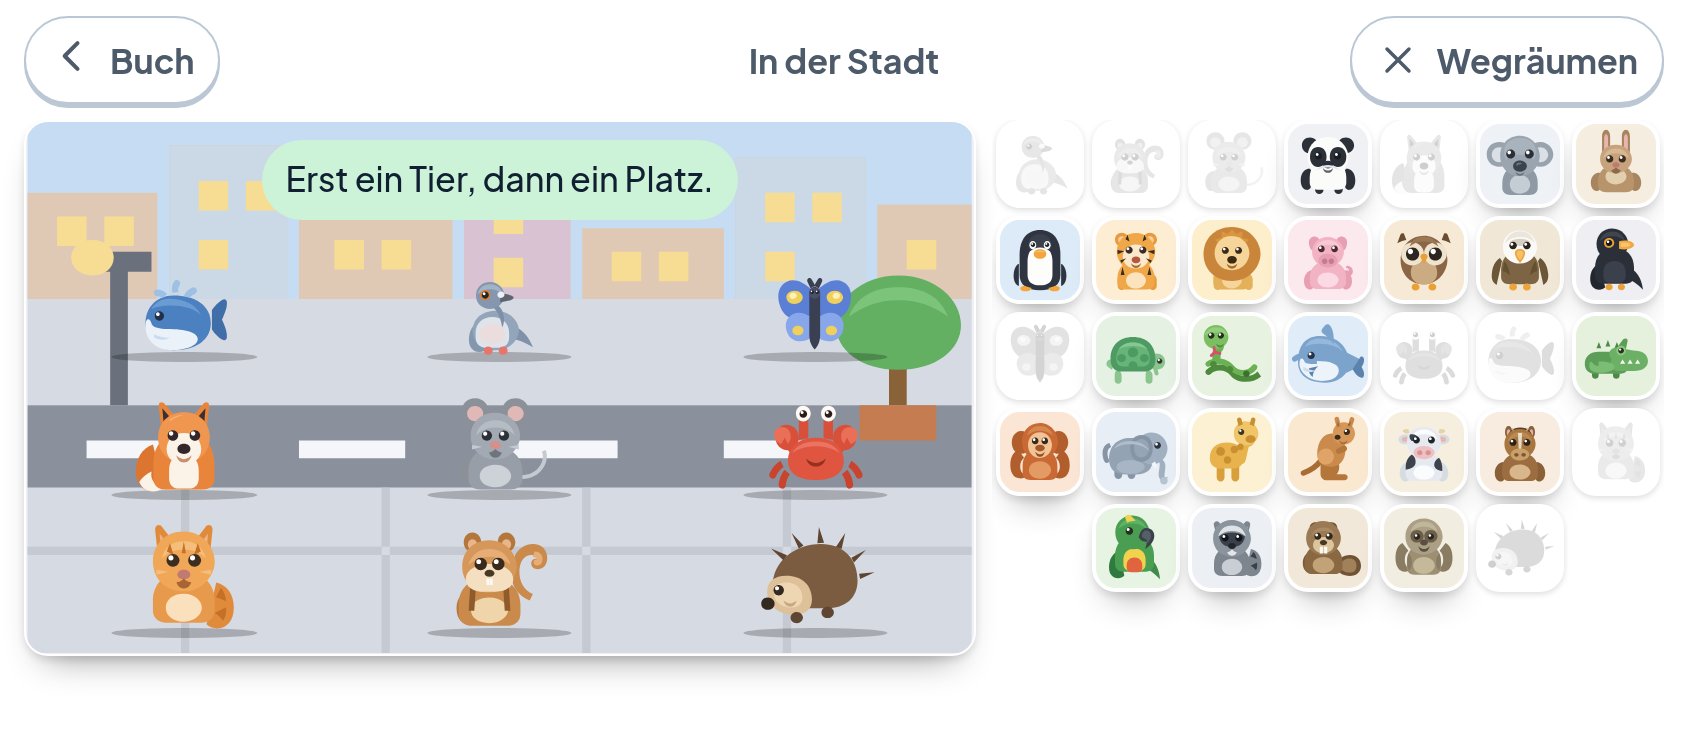
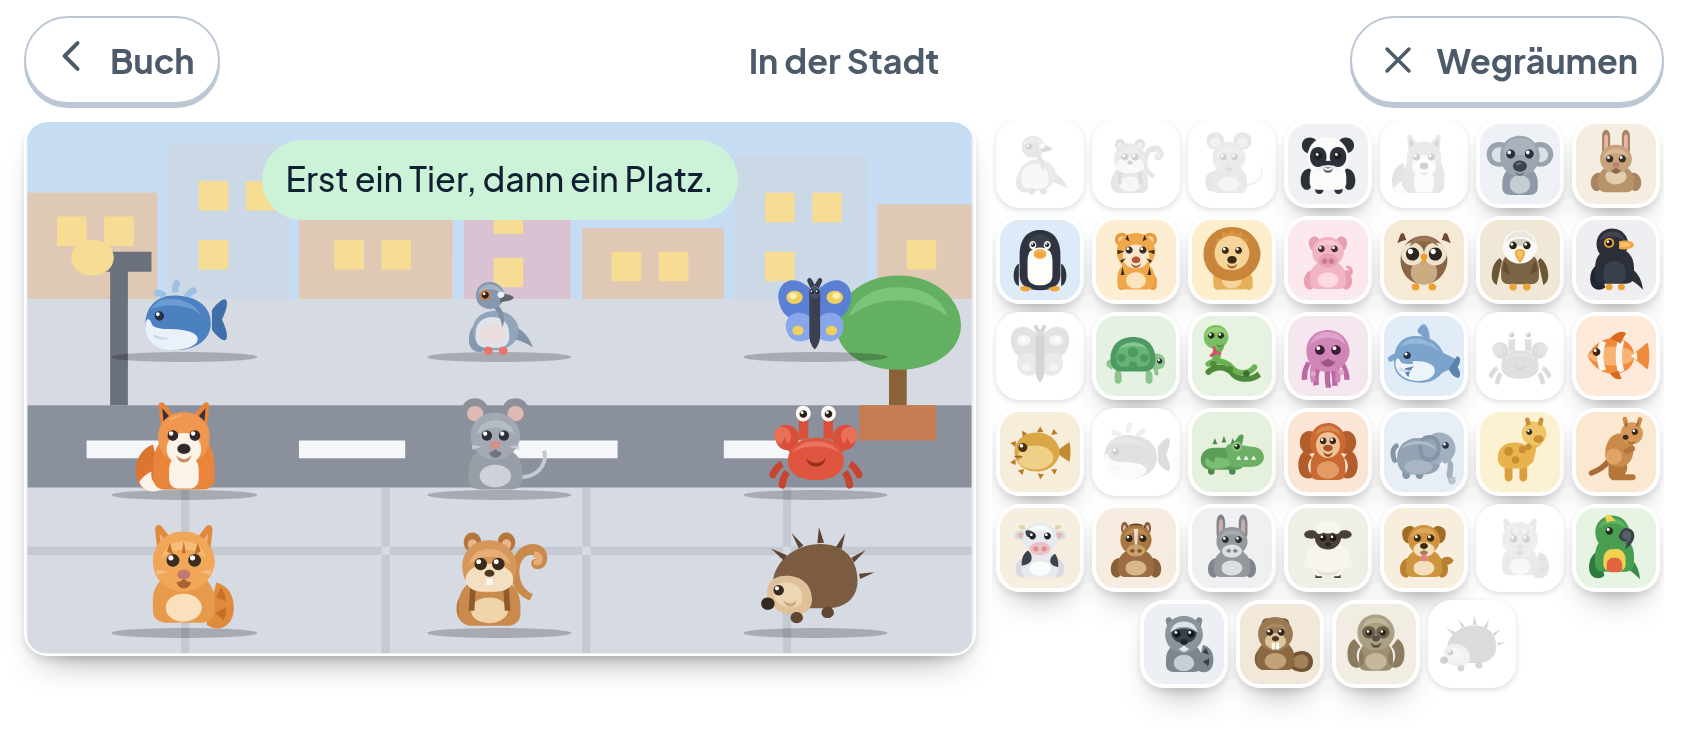
T5: „Im Riff" und „Auf der Weide" - und die Zahl auf dem Raumreiter faellt weg
Zwei Raeume in einer Runde, weil beide dieselbe Kette und dieselben zwei
Vorbilder anfassen - getrennt waeren es zwei Laeufe fuer dieselbe Arbeit.

  Im Riff         Korallenfisch, Kugelfisch, Krake  an allen vier
                  ENGLISCH-Ebenen
  Auf der Weide   Schaf, Esel, Hund                 an allen vier
                  SCHREIBEN-Ebenen

JEDE WELT GIBT EINEN RAUM, gleich welche ihrer Ebenen fertig wird -
dieselbe Ableitung wie beim Bauernhof. Die vier Englischebenen sind auf
die Profile verteilt (Fiona und Lea hoeren, die Eltern haben die drei
anderen); wer eine davon durch hat, hat genug fuer drei Tiere.

Bei Schreiben sind alle vier Ebenen Fionas. Die Weide ist damit als
einziger Raum nicht fuer alle vier zu holen. Das ist keine
Ungleichheit, die hier entsteht, sondern eine, die es schon gibt: Lea
hat keine Schreibwelt. Und es ist die Welt, die Fiona am schwersten
faellt - ein Lohn gehoert eher dorthin als in die leichte.

WAS DAS WACHSTUM DIESMAL GEKOSTET HAT: die Sammlung geht von 33 auf 39,
die Raeume von 11 auf 13. Die Bank hat es weggesteckt, sie blaettert
seit T4. Gekippt ist die REITERZEILE IM BUCH - dreizehn Reiter standen
auf 667 x 375 in zwei Zeilen, und das Kapitel lag 32 Punkte unter dem
Rand.

Der Griff ist keine Verkleinerung, sondern eine Streichung: die Zahl auf
dem Reiter ist weg. Sie sagt fast nichts - ein Raum gibt seine drei
Tiere AUF EINMAL, sie ist also 0/3 oder 3/3, und beides steht schon da,
[…]

Changed region(s): [[0.5853, 0.3955, 0.9858, 0.791], [0.6777, 0.791, 0.8934, 0.9431]]

diff --git a/src/inhalt/tiere.js b/src/inhalt/tiere.js
@@ -335,6 +335,34 @@ export const RAEUME = [
     tiere:['kuh', 'pferd', 'schwein'] },
   { ebene:'rechnen:gross',       titel:'Der Bauernhof',
     tiere:['kuh', 'pferd', 'schwein'] },
+  /* ENGLISCH gibt das Riff, SCHREIBEN die Weide - jede WELT einen Raum,
+   * gleich welche ihrer Ebenen fertig wird. Dieselbe Ableitung wie beim
+   * Bauernhof: die vier Englischebenen sind auf die Profile verteilt
+   * (Fiona und Lea hoeren, die Eltern haben die drei anderen), und wer
+   * eine davon durch hat, hat die Welt durch genug fuer drei Tiere.
+   *
+   * Bei SCHREIBEN sind alle vier Ebenen Fionas - die Welt gibt es nur
+   * fuer sie (`wer:['fiona']`, siehe spiel.js). Der Raum ist damit als
+   * einziger nicht fuer alle vier zu holen. Das ist keine Ungleichheit,
+   * die hier entsteht, sondern eine, die es schon gibt: Lea hat keine
+   * Schreibwelt. Und es ist die Welt, die Fiona am schwersten faellt -
+   * ein Lohn gehoert eher dorthin als in die leichte. */
+  { ebene:'englisch:hoeren',     titel:'Im Riff',
+    tiere:['korallenfisch', 'kugelfisch', 'krake'] },
+  { ebene:'freunde',             titel:'Im Riff',
+    tiere:['korallenfisch', 'kugelfisch', 'krake'] },
+  { ebene:'wendungen',           titel:'Im Riff',
+    tiere:['korallenfisch', 'kugelfisch', 'krake'] },
+  { ebene:'hoersatz',            titel:'Im Riff',
+    tiere:['korallenfisch', 'kugelfisch', 'krake'] },
+  { ebene:'schreiben:buchstaben', titel:'Auf der Weide',
+    tiere:['schaf', 'esel', 'hund'] },
+  { ebene:'schreiben:diktat',     titel:'Auf der Weide',
+    tiere:['schaf', 'esel', 'hund'] },
+  { ebene:'schreiben:ziffern',    titel:'Auf der Weide',
+    tiere:['schaf', 'esel', 'hund'] },
+  { ebene:'schreiben:zahlen',     titel:'Auf der Weide',
+    tiere:['schaf', 'esel', 'hund'] },
 ];
 
 /** Was gemalt ist - der wirkliche Vorrat. */
@@ -437,6 +465,12 @@ export const KULISSEN = {
   "Der Bauernhof": {
     ton:'#f3f0e2',
     bild:'<path d="M0 0h160v34H0z" fill="#bfe0f2"/><path d="M0 34c26-10 46 4 72-2s52-12 88 0v12H0z" fill="#8ec072"/><path d="M0 44h160v46H0z" fill="#a4d183"/><path d="M0 54c30 6 54-6 84-2s48 8 76 4v34H0z" fill="#b6dd97"/><path d="M136 12c6 0 10 4 10 9s-4 9-10 9-10-4-10-9 4-9 10-9z" fill="#fbe27a"/><path d="M116 52V28h34v24z" fill="#c05a4a"/><path d="M112 28l21-11 21 11z" fill="#8e3f34"/><path d="M128 52V36h10v16z" fill="#e8d7b2"/><path d="M120 32h6v6h-6zM140 32h6v6h-6z" fill="#f0dfc0"/><path d="M154 52V30h8v22z" fill="#d9d3c2"/><path d="M154 30c0-3 2-5 4-5s4 2 4 5z" fill="#b9b2a0"/><path d="M2 60v-13h3v13zM10 60v-15h3v15zM18 60v-13h3v13zM26 60v-15h3v15zM0 49h32v2.4H0zM0 55h32v2.4H0z" fill="#e8d9ba"/><path d="M44 62c0-4 3-7 7-7s7 3 7 7-3 6-7 6-7-2-7-6z" fill="#e2c274"/><path d="M46 60c1-2 3-3 5-3s3 .5 4 1.5c-3-.5-6 0-9 1.5z" fill="#eed599"/><path d="M74 52V44h3.4v8z" fill="#8a6238"/><path d="M75.6 26c7 0 12 5 12 10s-5 9-12 9-12-4-12-9 5-10 12-10z" fill="#5aa05a"/><path d="M75.6 28c5 0 8 2.6 9.4 6-2.8-2.4-5.8-3.6-9.4-3.6s-6.6 1.2-9.4 3.6c1.4-3.4 4.4-6 9.4-6z" fill="#75b972"/><path d="M96 78l-2-8 3 4 2-6 2 6 3-4-2 8zM30 84l-2-7 3 3.5 2-5 2 5 3-3.5-2 7z" fill="#8ec072"/>' },
+  "Im Riff": {
+    ton:'#dcf2ee',
+    bild:'<path d="M0 0h160v24H0z" fill="#3fb0b8"/><path d="M0 24h160v24H0z" fill="#57c2c4"/><path d="M0 48h160v22H0z" fill="#7ed4cf"/><path d="M0 70h160v20H0z" fill="#f2e4bc"/><path d="M0 70c22-5 42 3 64 1s34-7 56-5 26 4 40 2v22H0z" fill="#f8eecd"/><path d="M6 70c0-9 5-14 5-21 0-4-3-5-3-9 0-4 4-6 8-6s8 2 8 6c0 4-3 5-3 9 0 7 5 12 5 21z" fill="#f07f9a"/><path d="M15 70c0-7 4-10 4-15 0-2-2-3-2-5 0-3 3-4 6-4s6 1 6 4c0 2-2 3-2 5 0 5 4 8 4 15z" fill="#f8a8b8"/><path d="M136 70c-7 0-12-4-12-9s5-9 12-9 14 4 14 9-7 9-14 9z" fill="#c98adc"/><path d="M130 58c3-2 7-2 10 0-3 1-7 1-10 0zM128 63c5-2 12-2 17 0-5 2-12 2-17 0z" fill="#deaae8"/><path d="M152 70c-2-8 1-14 0-22 3 5 5 15 3 22zM158 70c0-9 3-15 3-22 2 8 0 16-1 22z" fill="#4fbf8e"/><path d="M40 20c2 0 3 1.4 3 3s-1 3-3 3-3-1.4-3-3 1-3 3-3zM48 10c1.4 0 2 1 2 2s-.6 2-2 2-2-1-2-2 .6-2 2-2zM120 26c1.8 0 2.6 1.2 2.6 2.6s-.8 2.6-2.6 2.6-2.6-1.2-2.6-2.6.8-2.6 2.6-2.6z" fill="#c2ecec"/>' },
+  "Auf der Weide": {
+    ton:'#eef4e2',
+    bild:'<path d="M0 0h160v30H0z" fill="#c6e4f4"/><path d="M0 30c24-8 44 4 70 0s52-8 90 2v10H0z" fill="#8fc272"/><path d="M0 40h160v50H0z" fill="#a7d489"/><path d="M0 52c30 6 54-6 84-2s48 8 76 4v36H0z" fill="#bade9c"/><path d="M28 14c4 0 6 2 6 4h-16c0-3 2-5 5-5 1 0 2 .3 3 .6C27 13 27.4 14 28 14z" fill="#f2f8fc"/><path d="M112 10c5 0 8 2.4 8 5h-20c0-3.6 2.6-6 6-6 1.2 0 2.4.4 3.4 1z" fill="#f2f8fc"/><path d="M4 42v-12h3v12zM20 42v-12h3v12zM36 42v-12h3v12zM52 42v-12h3v12zM68 42v-12h3v12zM84 42v-12h3v12zM100 42v-12h3v12zM116 42v-12h3v12zM132 42v-12h3v12zM148 42v-12h3v12zM0 32h160v2.6H0zM0 38h160v2.6H0z" fill="#e4d3ae"/><path d="M4 62h20v8H4z" fill="#9c7548"/><path d="M5 63h18v3H5z" fill="#7fc0dc"/><path d="M140 68c0-5 4-8 9-8s9 3 9 8-4 7-9 7-9-2-9-7z" fill="#e2c274"/><path d="M143 65c1.5-2 4-3 6-3s3.5.5 5 1.5c-4-.5-8 .3-11 1.5z" fill="#eed599"/><path d="M34 80c1.6 0 2.4 1 2.4 2.2s-.8 2.2-2.4 2.2-2.4-1-2.4-2.2.8-2.2 2.4-2.2zM118 84c1.6 0 2.4 1 2.4 2.2s-.8 2.2-2.4 2.2-2.4-1-2.4-2.2.8-2.2 2.4-2.2z" fill="#f2e07a"/><path d="M76 86c1.6 0 2.4 1 2.4 2.2s-.8 2.2-2.4 2.2-2.4-1-2.4-2.2.8-2.2 2.4-2.2z" fill="#f2a0bc"/>' },
 };
 
 /** Die Landschaft eines Raumes - oder `null`, wenn es noch keine gibt. */

diff --git a/prototyp/spiel.js b/prototyp/spiel.js
@@ -6871,8 +6871,19 @@ async function forscherbuch(){
                   data-raumwahl="${r.titel}"
                   role="tab" aria-selected="${i === zuerst}"
                   data-lesen="${r.titel}. ${meins.length} von drei."
+            ${/* KEINE ZAHL auf dem Reiter mehr.
+                 Bei dreizehn Raeumen stand die Reihe auf dem kleinsten
+                 Geraet in zwei Zeilen und das Kapitel 32 Punkte unter
+                 dem Rand. Die Zahl sagt ausserdem fast nichts: ein Raum
+                 gibt seine drei Tiere AUF EINMAL, sie ist also 0/3 oder
+                 3/3 - und beides steht schon da, weil das Tier auf dem
+                 Reiter blass ist, solange keines gesammelt ist. Gesagt
+                 wird sie weiterhin (`data-lesen`), fuer Fiona.
+                 Bleibt der Fall 1/3 oder 2/3: den gibt es nur bei einem
+                 Profil, das seine Tiere bekommen hat, BEVOR der Raum
+                 fertig gemalt war. Die Wand darunter zeigt ihn genau. */''}
             >${zeichen ? tierBild(zeichen, 'raumzeichen') : ''
-            }<span>${r.titel}</span><small>${meins.length}/3</small></button>`;
+            }<span>${r.titel}</span></button>`;
         }).join('')}</div>` : ''}
         ${raeume.map((r, i) => `<div class="tierraum" data-raumseite="${r.titel}"${
             i === zuerst ? '' : ' hidden'}>

diff --git a/docs/Lernkiste-BACKLOG.md b/docs/Lernkiste-BACKLOG.md
@@ -4902,6 +4902,54 @@ Grund nennt die Grundform. Wer beide gleich erzwingt, macht die Daten
 falsch, damit die Prüfung grün wird. Verglichen werden jetzt drei
 Buchstaben ohne Bindestrich — grob, und mit Absicht grob.
 
+### T5 · Im Riff und Auf der Weide — GEFAHREN (v399)
+
+Zwei Räume in einer Runde, weil beide dieselbe Kette und dieselben zwei
+Vorbilder anfassen — getrennt wären es zwei Läufe für dieselbe Arbeit.
+
+| Raum | Tiere | hängt an |
+|---|---|---|
+| **Im Riff** | Korallenfisch · Kugelfisch · Krake | allen vier **Englisch**-Ebenen |
+| **Auf der Weide** | Schaf · Esel · Hund | allen vier **Schreiben**-Ebenen |
+
+**Jede Welt gibt einen Raum, gleich welche ihrer Ebenen fertig wird** —
+dieselbe Ableitung wie beim Bauernhof. Die vier Englischebenen sind auf
+die Profile verteilt (Fiona und Lea hören, die Eltern haben die drei
+anderen); wer eine davon durch hat, hat genug für drei Tiere.
+
+Bei Schreiben sind alle vier Ebenen Fionas. Die Weide ist damit als
+einziger Raum nicht für alle vier zu holen. Das ist keine Ungleichheit,
+die hier entsteht, sondern eine, die es schon gibt: Lea hat keine
+Schreibwelt. Und es ist die Welt, die Fiona am schwersten fällt — ein Lohn
+gehört eher dorthin als in die leichte.
+
+#### Was das Wachstum diesmal gekostet hat
+
+Die Sammlung geht von 33 auf **39**, die Räume von 11 auf 13. Die Bank
+hat es weggesteckt — sie blättert seit T4. Gekippt ist die **Reiterzeile
+im Buch**: dreizehn Reiter standen auf 667 × 375 in zwei Zeilen, und das
+Kapitel lag 32 Punkte unter dem Rand.
+
+Der Griff ist keine Verkleinerung, sondern eine Streichung: **die Zahl auf
+dem Reiter ist weg**. Sie sagt fast nichts — ein Raum gibt seine drei
+Tiere *auf einmal*, sie ist also 0/3 oder 3/3, und beides steht schon da,
+weil das Tier auf dem Reiter blass ist, solange keines gesammelt ist.
+Gesagt wird sie weiterhin (`data-lesen`), für Fiona. Dreizehn Reiter
+passen jetzt in eine Zeile, und es reicht bis etwa sechzehn.
+
+Der Fall 1/3 oder 2/3 bleibt möglich — bei einem Profil, das seine Tiere
+bekommen hat, bevor der Raum fertig gemalt war (genau das ist zwischen
+v390 und v392 passiert). Die Wand einen Tipp weiter zeigt ihn genau.
+
+**Startbündel: 391 von 700 KB.**
+
+#### Offen
+
+- Fünf Tiere haben noch keinen Raum: Ente, Fisch, Tintenfisch, Hai, Orca.
+  Vier davon wären „In der Tiefsee" — der Raum fehlt, nicht die Tiere.
+
+---
+
 ### T4 · Der Bauernhof — GEFAHREN (v397)
 
 Der **erste Lebensraum außerhalb der Erdkunde**. Er hängt an allen **drei**
